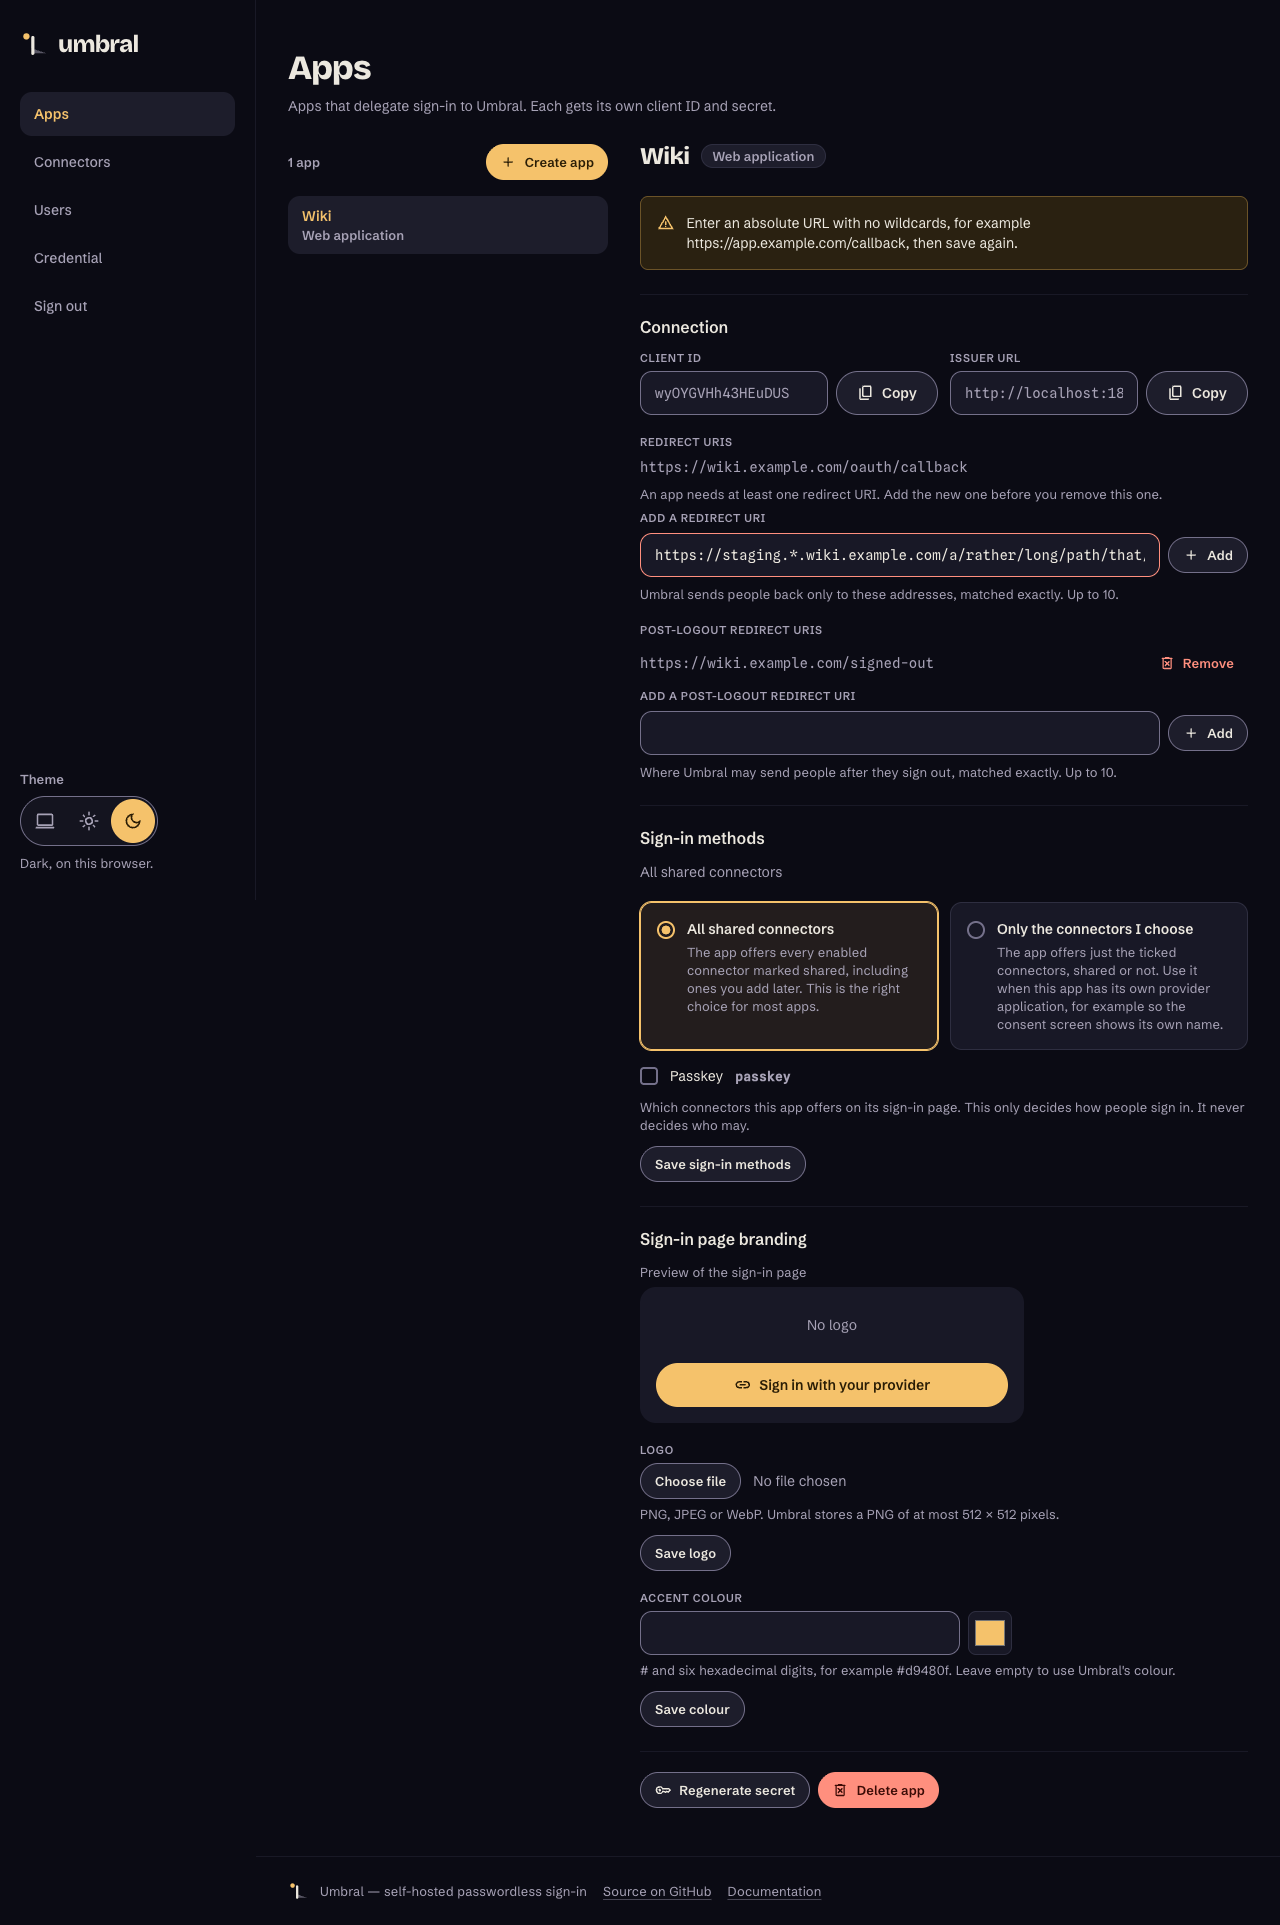
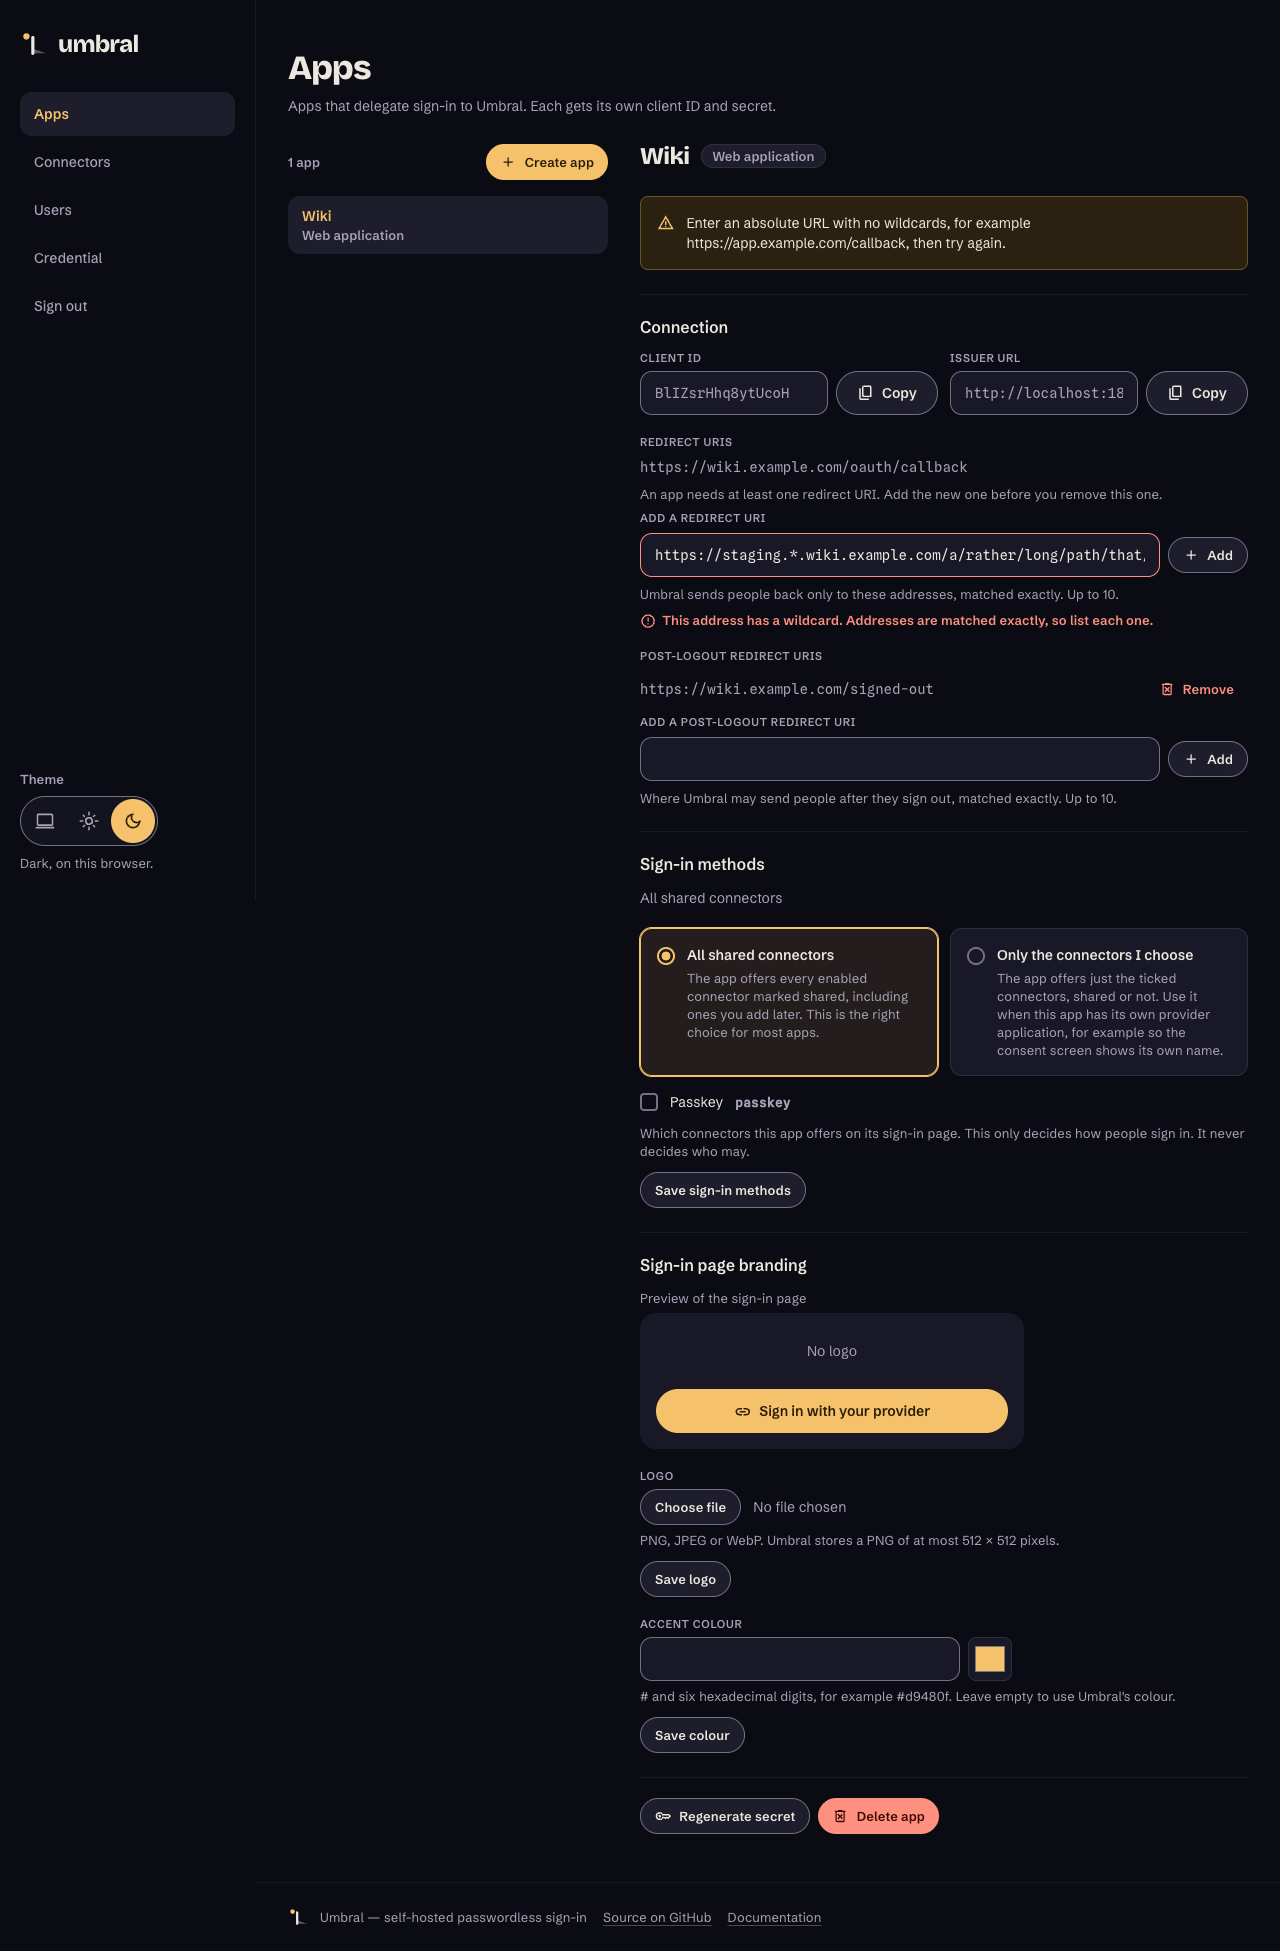
review(k3ep): captures retaken at 9a8e1c7 with the reason under the field; notes

diff --git a/.alta/reviews/2026-11-11-keep-typed-address/notes.md b/.alta/reviews/2026-11-11-keep-typed-address/notes.md
@@ -42,3 +42,11 @@ Each state is at 1280 and 360, dark and light. No state overflows horizontally a
 
 ## Questions for the designer
 1. **The refusal's own reason.** Should it travel in the same cookie and be shown with the notice? `RedirectUris.acceptable` already says why: "is not an absolute URL", "contains a fragment…", "contains a wildcard…". It is not in this change.
+
+## Follow-up for the design nits (`9a8e1c7`)
+
+- **Nit 1, the reason under the field:** the reason travels as a code, `list=..;why=<code>;uri=..`, from the closed set `RedirectUris.Problem`. The page reads it back with `problemOfCode`, so an unknown code shows no reason line, and the text is always Umbral's own `Texts.AppUriProblem` with the designer's four strings. It is drawn as a `um-field-error` after the hint, and the input's `aria-describedby` is `<hint> <error>`. `RedirectUris.check` returns the Problem; `acceptable` keeps its messages word for word on top of it.
+- **NoHost is unreachable on .NET 10:** every http(s) address with no host fails `Uri.TryCreate`, so the operator sees NotAbsolute. The string is kept for completeness.
+- **Nit 2, the notice wording:** the notice ends "then try again."
+- **Tests:** the four affected groups (AppRedirectUris, RedirectUri, AppsMasterDetail, Meta) pass, 158/158. The full suite was 1,908/1,908 on these sources (the child's run).
+- **Captures:** retaken from `9a8e1c7` with the same names, by the same script. The reason line is visible: wildcard on the redirect list, fragment on the post-logout list.
